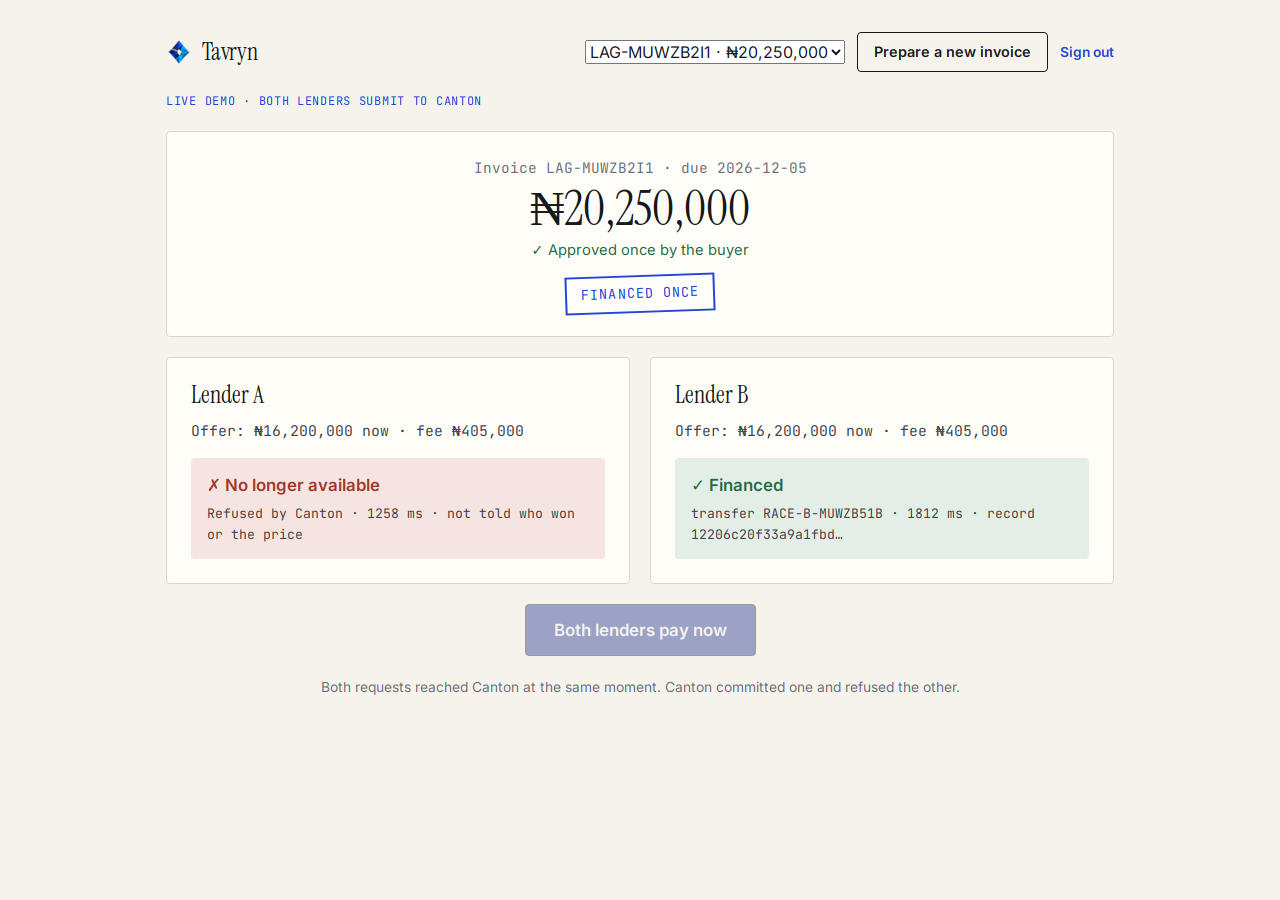
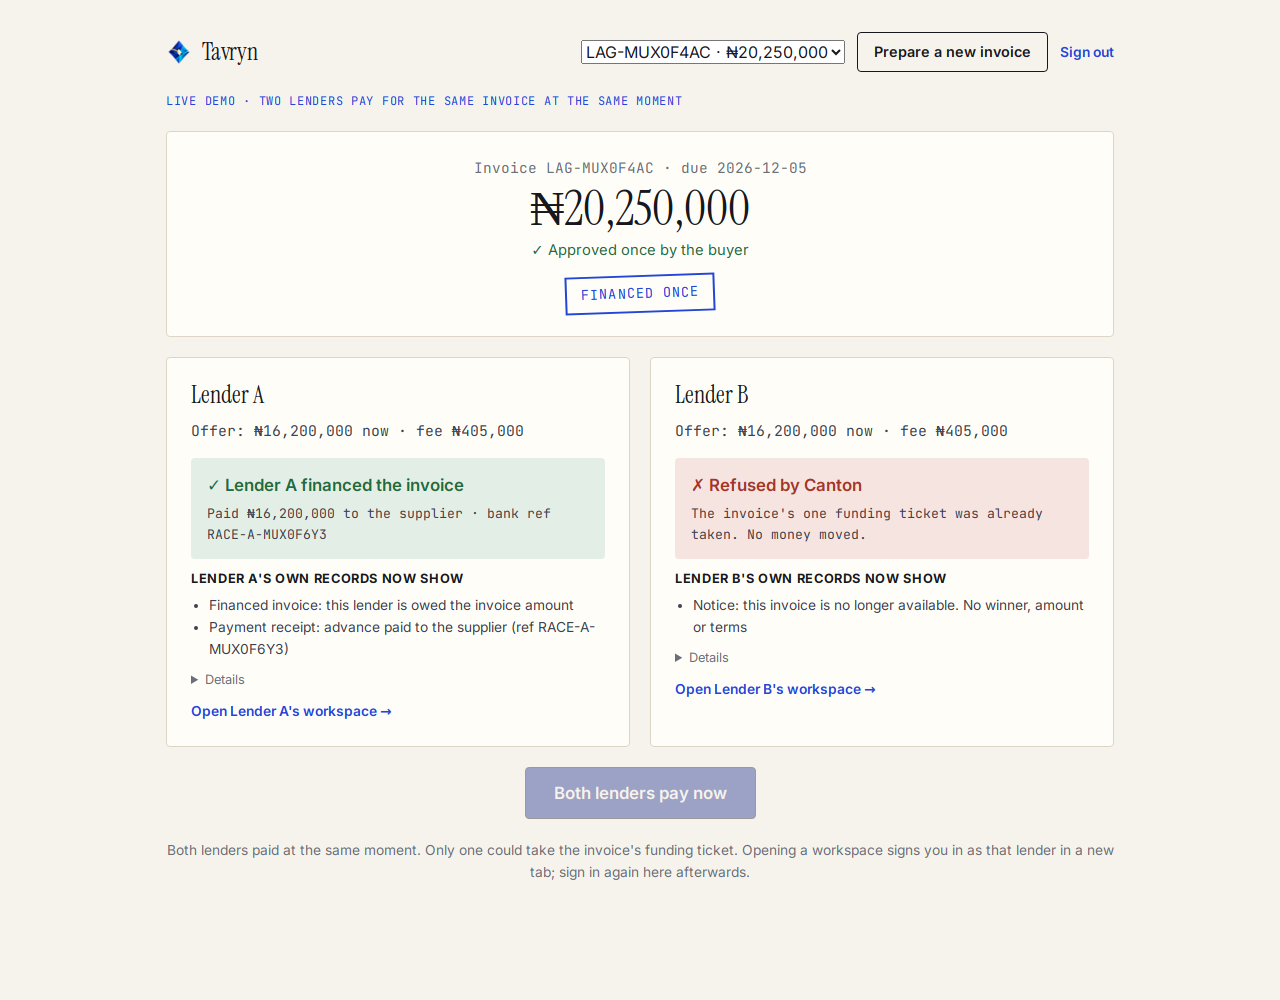
Explain race results in plain words

diff --git a/ui/race.html b/ui/race.html
@@ -35,6 +35,12 @@
       .controls { display: flex; flex-wrap: wrap; gap: 12px; align-items: center; justify-content: center; }
       .controls .button-primary { height: 52px; padding: 0 28px; font-size: 1.05rem; }
       .footnote { text-align: center; color: var(--muted); font-size: 0.86rem; }
+      .records { font-size: 0.86rem; color: var(--ink-soft); }
+      .records strong { display: block; color: var(--ink); font-size: 0.8rem; text-transform: uppercase; letter-spacing: 0.05em; margin-bottom: 4px; }
+      .records ul { margin: 0; padding-left: 18px; }
+      .lender details { font-size: 0.8rem; color: var(--muted); }
+      .lender details code { display: block; font-family: var(--mono); overflow-wrap: anywhere; margin-top: 4px; color: var(--ink-soft); }
+      .lender .open { font-size: 0.86rem; color: var(--blue); font-weight: 600; text-decoration: none; }
       .pulse { animation: pulse 0.9s ease-in-out infinite; }
       @keyframes pulse { 50% { opacity: 0.45; } }
       @media (max-width: 700px) { .lenders { grid-template-columns: 1fr; } .invoice .amount { font-size: 2.2rem; } }
@@ -52,7 +58,7 @@
         </div>
       </div>
 
-      <p class="live-label">Live demo · both lenders submit to Canton</p>
+      <p class="live-label">Live demo · two lenders pay for the same invoice at the same moment</p>
 
       <section class="card invoice" aria-live="polite">
         <span class="number" id="number">No invoice ready</span>
@@ -69,7 +75,7 @@
       <div class="controls">
         <button class="button button-primary" type="button" id="race" disabled>Both lenders pay now</button>
       </div>
-      <p class="footnote" id="note">The result is returned by Canton, not decided by this page.</p>
+      <p class="footnote" id="note">The result comes from Canton, not from this page. The winner can change from run to run.</p>
     </main>
 
     <script type="module">
@@ -87,14 +93,31 @@
         return payload;
       }
 
+      const EMAILS = { financierA: "credit@lender-a.demo", financierB: "credit@lender-b.demo", financierC: "credit@lender-c.demo" };
+
       function lenderCard(slot, offer, outcome, running) {
         if (!offer) { $(slot).innerHTML = `<h2>-</h2>`; return; }
+        const name = label(offer.financierRole);
+        const currency = state.current.currency;
         let verdict = `<div class="verdict">Waiting</div>`;
-        if (running) verdict = `<div class="verdict pulse">Submitting to Canton…</div>`;
-        if (outcome?.status === "funded") verdict = `<div class="verdict funded">✓ Financed<small>${outcome.paymentReference ? `transfer ${escape(outcome.paymentReference)} · ` : ""}${outcome.elapsedMs} ms · record ${escape((outcome.updateId || "").slice(0, 18))}…</small></div>`;
-        if (outcome?.status === "refused") verdict = `<div class="verdict refused">✗ No longer available<small>Refused by Canton · ${outcome.elapsedMs} ms · not told who won or the price</small></div>`;
+        if (running) verdict = `<div class="verdict pulse">Sending payment to Canton…</div>`;
+        if (outcome?.status === "funded") {
+          verdict = `<div class="verdict funded">✓ ${name} financed the invoice<small>Paid ${money(offer.advance, currency)} to the supplier${outcome.paymentReference ? ` · bank ref ${escape(outcome.paymentReference)}` : ""}</small></div>`;
+        }
+        if (outcome?.status === "refused") {
+          verdict = outcome.rejectedBy === "canton"
+            ? `<div class="verdict refused">✗ Refused by Canton<small>The invoice's one funding ticket was already taken. No money moved.</small></div>`
+            : `<div class="verdict refused">✗ Stopped before sending<small>The ledger already showed this invoice financed, so no payment was sent.</small></div>`;
+        }
         if (outcome?.status === "failed") verdict = `<div class="verdict failed">Couldn't complete<small>${escape(outcome.message || outcome.code || "")}</small></div>`;
-        $(slot).innerHTML = `<h2>${label(offer.financierRole)}</h2><span class="offer">Offer: ${money(offer.advance, state.current.currency)} now${offer.fee ? ` · fee ${money(offer.fee, state.current.currency)}` : ""}</span>${verdict}`;
+        const records = outcome?.ledgerView?.length
+          ? `<div class="records"><strong>${name}'s own records now show</strong><ul>${outcome.ledgerView.map((line) => `<li>${escape(line)}</li>`).join("")}</ul></div>`
+          : "";
+        const details = outcome && outcome.status !== "failed"
+          ? `<details><summary>Details</summary>${outcome.updateId ? `<code>Committed transaction: ${escape(outcome.updateId)}</code>` : ""}${outcome.cantonCode ? `<code>Canton's answer: ${escape(outcome.cantonCode)}</code>` : ""}<code>Answered in ${outcome.elapsedMs} ms</code></details>`
+          : "";
+        const open = outcome ? `<a class="open" href="/login?use=${encodeURIComponent(EMAILS[offer.financierRole] || "")}" target="_blank" rel="noopener">Open ${name}'s workspace →</a>` : "";
+        $(slot).innerHTML = `<h2>${name}</h2><span class="offer">Offer: ${money(offer.advance, currency)} now${offer.fee ? ` · fee ${money(offer.fee, currency)}` : ""}</span>${verdict}${records}${details}${open}`;
       }
 
       function render(outcomes, running = false) {
@@ -162,7 +185,7 @@
           const { outcomes } = await api("/api/v1/race", { method: "POST", body: JSON.stringify({ invoiceNumber: state.current.invoiceNumber }) });
           state.busy = false;
           render(outcomes);
-          $("note").textContent = "Both requests reached Canton at the same moment. Canton committed one and refused the other.";
+          $("note").textContent = "Both lenders paid at the same moment. Only one could take the invoice's funding ticket. Opening a workspace signs you in as that lender in a new tab; sign in again here afterwards.";
         } catch (error) {
           state.busy = false;
           render();

diff --git a/backend/src/race.ts b/backend/src/race.ts
@@ -14,6 +14,7 @@ interface RaceOffer {
 
 export interface RaceCandidate {
   invoiceNumber: string;
+  invoiceCommitment: string;
   faceValue: string;
   currency: string;
   dueDate: string;
@@ -28,6 +29,12 @@ export interface RaceOutcome {
   elapsedMs: number;
   updateId?: string;
   paymentReference?: string;
+  // Who stopped a losing request: Canton itself, or Tavryn's read of the ledger before
+  // sending (when the invoice was already gone by the time this request started).
+  rejectedBy?: "canton" | "ledger-read";
+  cantonCode?: string;
+  // What this lender's own ledger view holds for the invoice after the race.
+  ledgerView?: string[];
 }
 
 const templateName = (contract: { templateId: string }) => contract.templateId.split(":").pop();
@@ -47,6 +54,7 @@ export async function raceCandidates(service: TavrynService): Promise<RaceCandid
     const key = String(argument.invoiceCommitment);
     const entry = byInvoice.get(key) ?? {
       invoiceNumber: terms.externalInvoiceNumber,
+      invoiceCommitment: key,
       faceValue: String(terms.faceValue),
       currency: String(terms.currency),
       dueDate: String(terms.dueDate),
@@ -96,16 +104,38 @@ export async function runRace(
       };
     } catch (error) {
       const code = record(error).publicCode as string | undefined;
+      const cantonCode = record(record(error).details).ledgerErrorCode as string | undefined;
       return {
         financierRole: offer.financierRole,
         status: code === "INVOICE_UNAVAILABLE" ? "refused" : "failed",
         code,
         message: error instanceof Error ? error.message : undefined,
         elapsedMs: Date.now() - started,
+        ...(code === "INVOICE_UNAVAILABLE" ? { rejectedBy: cantonCode ? "canton" as const : "ledger-read" as const } : {}),
+        ...(cantonCode ? { cantonCode } : {}),
       };
     }
   }));
+  // Each lender's own view of this invoice, read as that lender after the race.
+  for (const outcome of outcomes) {
+    outcome.ledgerView = await lenderView(service, outcome.financierRole, candidate.invoiceCommitment).catch(() => []);
+  }
   return { invoiceNumber, outcomes };
+}
+
+async function lenderView(service: TavrynService, role: string, invoiceCommitment: string): Promise<string[]> {
+  const contracts = await service.contractsForRole(role as never);
+  const lines: string[] = [];
+  for (const contract of contracts) {
+    const argument = record(contract.createArgument);
+    if (argument.invoiceCommitment !== invoiceCommitment) continue;
+    const name = templateName(contract);
+    if (name === "FinancedInvoice") lines.push("Financed invoice: this lender is owed the invoice amount");
+    if (name === "FundingReceipt") lines.push(`Payment receipt: advance paid to the supplier (ref ${argument.paymentReference})`);
+    if (name === "OfferClosed") lines.push("Notice: this invoice is no longer available. No winner, amount or terms");
+    if (name === "FinancingOffer") lines.push("Offer still open");
+  }
+  return lines;
 }
 
 // Demo setup for repeated takes: one invoice created, approved and offered to two lenders,

diff --git a/backend/test/race.test.ts b/backend/test/race.test.ts
@@ -45,7 +45,10 @@ test("both requests are sent, and Canton's refusal is reported as refused", asyn
     await new Promise((resolve) => setTimeout(resolve, 20));
     events.push(`end:${role}`);
     if (role === "financierB") {
-      throw Object.assign(new Error("This invoice is no longer available for funding."), { publicCode: "INVOICE_UNAVAILABLE" });
+      throw Object.assign(new Error("This invoice is no longer available for funding."), {
+        publicCode: "INVOICE_UNAVAILABLE",
+        details: { ledgerErrorCode: "LOCAL_VERDICT_LOCKED_CONTRACTS" },
+      });
     }
     return { transaction: { updateId: "u-a" }, createdContracts: [] };
   });
@@ -57,6 +60,21 @@ test("both requests are sent, and Canton's refusal is reported as refused", asyn
   assert.match(String(byRole.financierA.paymentReference), /^RACE-A-/);
   assert.equal(byRole.financierB.status, "refused");
   assert.equal(byRole.financierB.code, "INVOICE_UNAVAILABLE");
+  assert.equal(byRole.financierB.rejectedBy, "canton");
+  assert.equal(byRole.financierB.cantonCode, "LOCAL_VERDICT_LOCKED_CONTRACTS");
+});
+
+test("a request stopped by Tavryn's own ledger read is not credited to Canton", async () => {
+  const service = fakeService(async (_cid, role) => {
+    if (role === "financierB") {
+      throw Object.assign(new Error("gone"), { publicCode: "INVOICE_UNAVAILABLE" });
+    }
+    return { transaction: { updateId: "u-a" }, createdContracts: [] };
+  });
+  const { outcomes } = await runRace(service, "INV-1");
+  const loser = outcomes.find((outcome) => outcome.financierRole === "financierB");
+  assert.equal(loser?.rejectedBy, "ledger-read");
+  assert.equal(loser?.cantonCode, undefined);
 });
 
 test("any other failure is shown as a failure, not as a refusal", async () => {

diff --git a/ui/login.html b/ui/login.html
@@ -57,7 +57,10 @@
         : { supplier: "Supplier", buyer: "Buyer", auditor: "Auditor" }[account.role] || account.role;
       const escape = (value) => String(value).replace(/[&<>"']/g, (c) => ({ "&": "&amp;", "<": "&lt;", ">": "&gt;", '"': "&quot;", "'": "&#039;" })[c]);
 
-      fetch("/api/v1/auth/me").then((response) => { if (response.ok) location.replace("/app"); });
+      // Already signed in: go to the workspace, unless a specific company was asked for.
+      if (!new URLSearchParams(location.search).get("use")) {
+        fetch("/api/v1/auth/me").then((response) => { if (response.ok) location.replace("/app"); });
+      }
 
       fetch("/api/v1/auth/demo-accounts").then((response) => response.ok ? response.json() : { accounts: [] }).then(({ accounts }) => {
         if (!accounts?.length) return;
@@ -68,6 +71,9 @@
             <div class="creds">${escape(account.email)} / ${escape(account.password)}</div></div>
             <button class="button button-secondary" type="button" data-index="${index}">Use</button>
           </div>`).join("");
+        const wanted = new URLSearchParams(location.search).get("use");
+        const preset = accounts.find((account) => account.email === wanted);
+        if (preset) { $("email").value = preset.email; $("password").value = preset.password; }
         $("demoList").addEventListener("click", (event) => {
           const button = event.target.closest("button[data-index]");
           if (!button) return;
